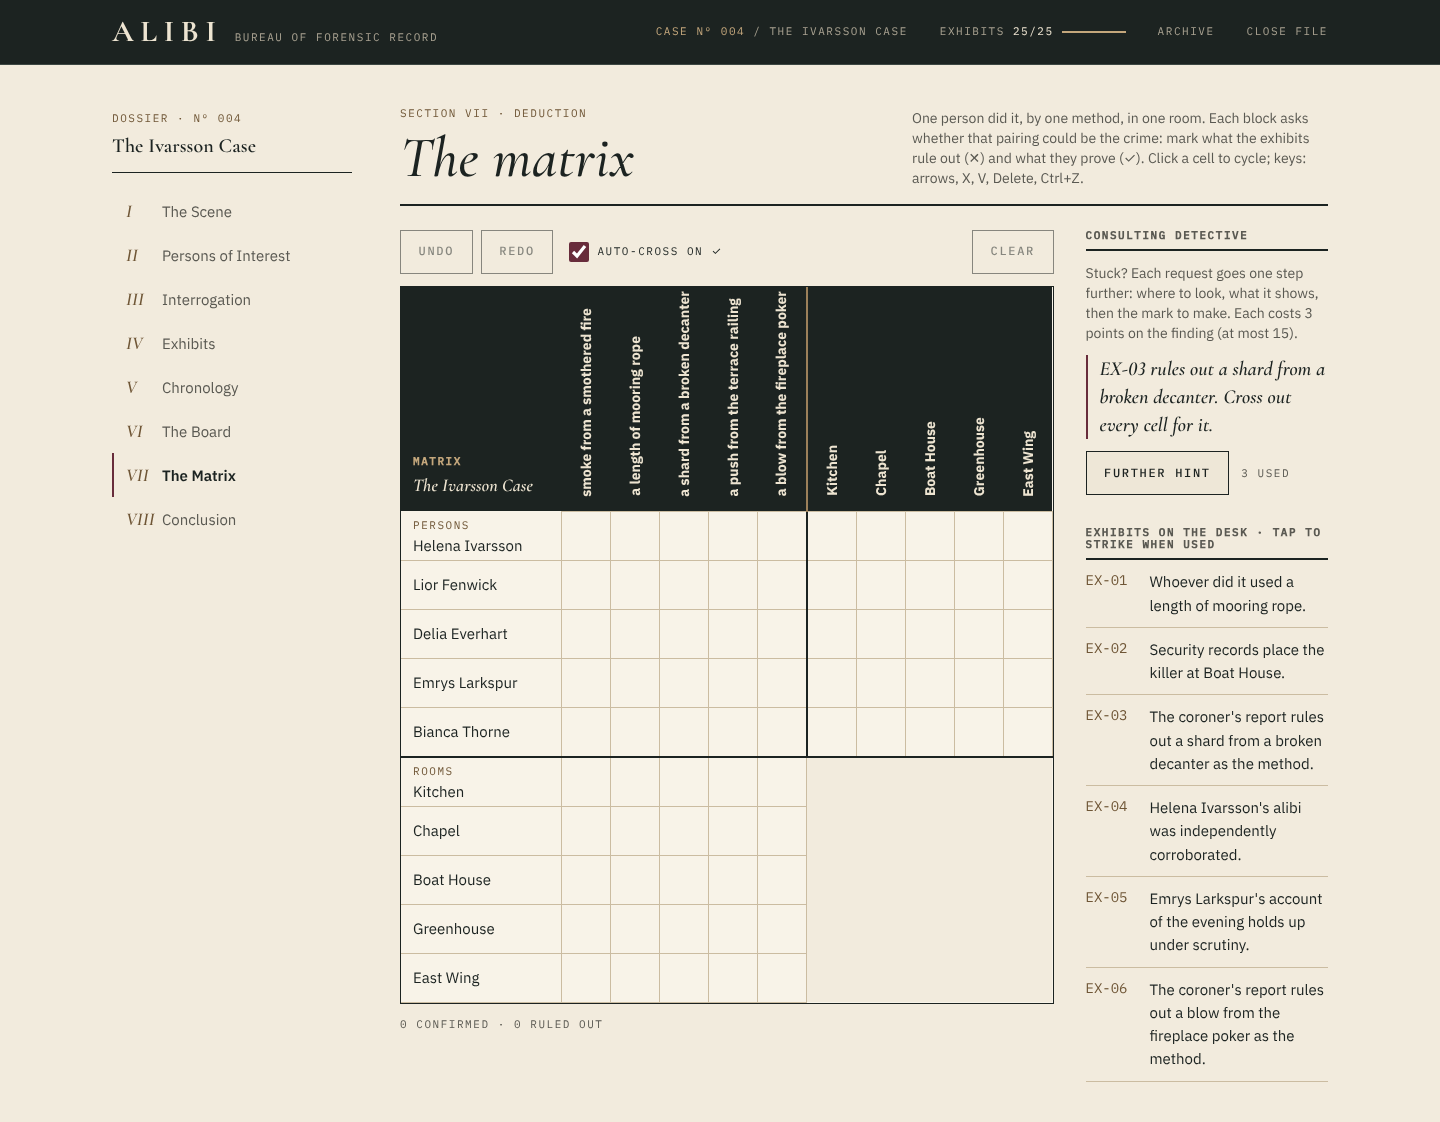
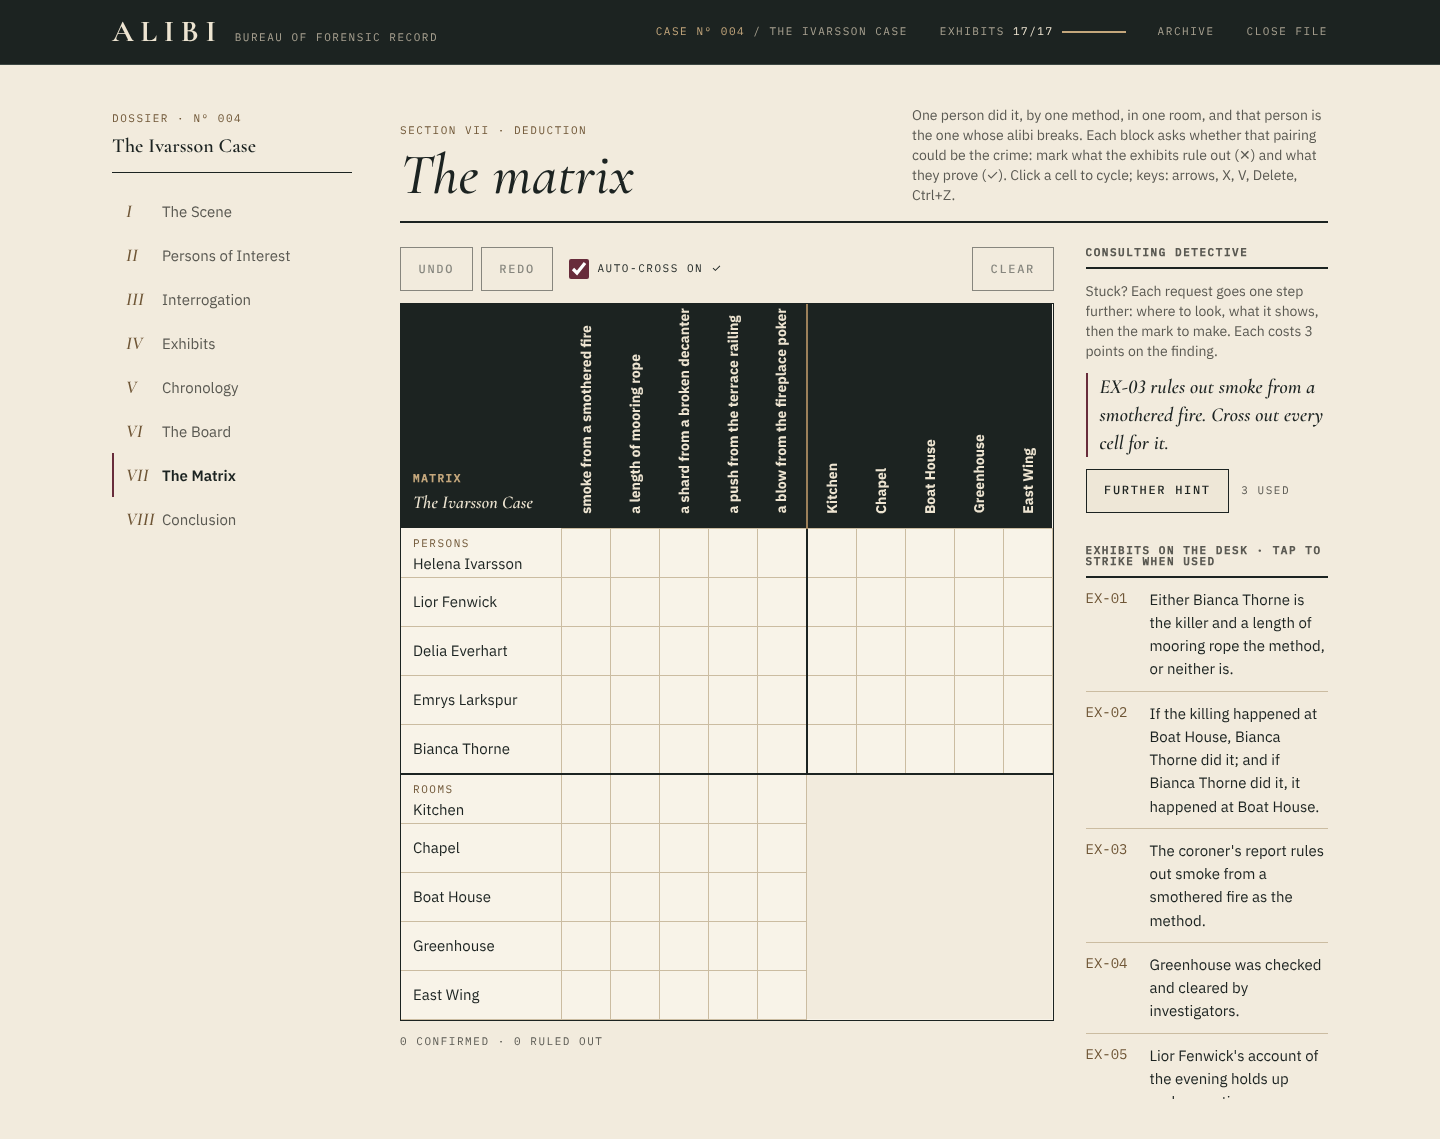
fix: QA — clue text matches solver meaning exactly, liar-is-killer as a stated solver rule, hints limited to what examined exhibits prove, uncapped hint cost, 365-day daily gate
Claude-Session: https://claude.ai/code/session_01EkSruiwNByfFX1a6RiVCtA

diff --git a/src/lib/state/hints.ts b/src/lib/state/hints.ts
@@ -43,11 +43,17 @@ export function nextHint(truth: CaseTruth, cells: Cells, discovered: string[], s
     // Blocks: person×method, person×room, room×method (deduction/page.tsx).
     return k === "person" ? count.method + count.room : k === "method" ? count.person + count.room : count.person + count.method;
   };
-  // A mark that contradicts the exhibits poisons every later step, so it comes first (step -1).
-  const answer = new Map(steps.filter((s) => s.kind === "confirm").map((s) => [`${GRID_KEY[s.axis]}:${s.value}`, true]));
+  // A mark that contradicts what the examined exhibits already prove comes first (step -1).
+  // Only the prefix of the trace whose exhibits are all in hand counts, so this never reveals more than the player holds.
+  const proven = new Set<string>();
+  const eliminated = new Set<string>();
+  for (const s of steps) {
+    if (!s.evidenceIds.every((id) => discovered.includes(id))) break;
+    (s.kind === "confirm" ? proven : eliminated).add(`${GRID_KEY[s.axis]}:${s.value}`);
+  }
   const wrong = Object.entries(cells).find(([k, m]) => {
     const parts = k.split("|");
-    return m === "o" ? parts.some((p) => !answer.has(p)) : parts.every((p) => answer.has(p));
+    return m === "o" ? parts.some((p) => eliminated.has(p)) : parts.every((p) => proven.has(p));
   });
   if (wrong) {
     const level = state.last?.step === -1 ? (Math.min(state.last.level + 1, 3) as 1 | 2 | 3) : 1;
@@ -68,9 +74,11 @@ export function nextHint(truth: CaseTruth, cells: Cells, discovered: string[], s
   const index = steps.findIndex((s) => !reflected(s, cells, slotsFor(s.axis)));
   if (index === -1) return { state, text: "Your grid already records every deduction the exhibits allow. Proceed to the conclusion." };
 
-  const level = state.last?.step === index ? (Math.min(state.last.level + 1, 3) as 1 | 2 | 3) : 1;
-  const repeat = state.last?.step === index && state.last.level === level;
   const step = steps[index];
+  const unseen = step.evidenceIds.filter((id) => !discovered.includes(id));
+  // Until its exhibits are examined a step stays at level 1: naming an unseen exhibit would quote it.
+  const level = state.last?.step === index && !unseen.length ? (Math.min(state.last.level + 1, 3) as 1 | 2 | 3) : 1;
+  const repeat = state.last?.step === index && state.last.level === level;
   const name =
     step.axis === "culprit"
       ? truth.characters.find((c) => c.id === step.value)?.name
@@ -79,8 +87,6 @@ export function nextHint(truth: CaseTruth, cells: Cells, discovered: string[], s
         : truth.locations.find((l) => l.id === step.value)?.name;
   const exNo = (id: string) => `EX-${String(truth.evidence.findIndex((e) => e.id === id) + 1).padStart(2, "0")}`;
   const exs = step.evidenceIds.map(exNo).join(" with ");
-  const unseen = step.evidenceIds.filter((id) => !discovered.includes(id));
-  const roomOf = (id: string) => truth.locations.find((l) => l.id === truth.evidence.find((e) => e.id === id)?.locationId)?.name;
   const plural = PLURAL[step.axis];
 
   let text: string;
@@ -91,7 +97,8 @@ export function nextHint(truth: CaseTruth, cells: Cells, discovered: string[], s
       `${name} is the only one of the ${plural} left: mark it ✓.`,
     ][level - 1];
   } else if (level === 1) {
-    text = unseen.length ? `A marker you have not examined, in ${roomOf(unseen[0])}, bears on the ${plural}.` : `Read ${exs} against the ${plural}.`;
+    // No room name: an exhibit sits in the room its clue is about, so naming it would give the answer away.
+    text = unseen.length ? `A marker you have not examined yet bears on the ${plural}. Search the scene before asking again.` : `Read ${exs} against the ${plural}.`;
   } else if (level === 2) {
     text = `${exs} ${step.evidenceIds.length > 1 ? "together are" : "on its own is"} enough to rule out one of the ${plural}.`;
   } else {

diff --git a/src/lib/engines/narrative-generator.ts b/src/lib/engines/narrative-generator.ts
@@ -76,26 +76,27 @@ const IS_TEMPLATES: Record<Axis, Array<(name: string) => string>> = {
   falseAlibi: [(n) => `${capitalize(AXIS_NOUN.falseAlibi)} is ${n}.`],
 };
 
+// Each template must say exactly what the solver's clue means (solver.ts):
+// linked = "A is part of the answer if and only if B is"; not-linked = "not both".
 const LINKED_TEMPLATES: Record<string, Array<(a: string, b: string) => string>> = {
   "culprit:method": [
-    (_a, b) => `Whoever did it used ${b}.`,
-    (_a, b) => `The killer's weapon was ${b}.`,
-    (_a, b) => `Trace evidence ties the killer to ${b}.`,
+    (a, b) => `Either ${a} is the killer and ${b} the method, or neither is.`,
+    (a, b) => `If ${b} was the method, ${a} is the killer; and if ${a} is the killer, the method was ${b}.`,
   ],
   "culprit:location": [
-    (_a, b) => `Whoever did it was at ${b} that night.`,
-    (_a, b) => `The killer was present at ${b}.`,
-    (_a, b) => `Security records place the killer at ${b}.`,
-  ],
-  "culprit:falseAlibi": [
-    () => `The culprit is the one whose story doesn't hold up.`,
-    () => `Whoever is lying about their alibi is the killer.`,
+    (a, b) => `Either ${a} is the killer and ${b} the scene, or neither is.`,
+    (a, b) => `If the killing happened at ${b}, ${a} did it; and if ${a} did it, it happened at ${b}.`,
   ],
   "method:location": [
-    (a, b) => `${capitalize(a)} was used at ${b}.`,
-    (a, b) => `The scene at ${b} is consistent with ${a}.`,
-    (a, b) => `Forensic residue of ${a} was found at ${b}.`,
+    (a, b) => `Either ${a} was used and ${b} is the scene, or neither is.`,
+    (a, b) => `If ${a} was used, it was at ${b}; and whatever happened at ${b} was done with ${a}.`,
   ],
+};
+
+const NOT_LINKED_TEMPLATES: Record<string, Array<(a: string, b: string) => string>> = {
+  "culprit:method": [(a, b) => `If ${a} is the killer, the method was not ${b}.`, (a, b) => `${a} did not use ${b}.`],
+  "culprit:location": [(a, b) => `If ${a} is the killer, it did not happen at ${b}.`],
+  "method:location": [(a, b) => `${capitalize(a)} was not used at ${b}.`, (a, b) => `Whatever happened at ${b}, it was not ${a}.`],
 };
 
 const CONDITIONAL_TEMPLATES: Array<(ifNoun: string, ifName: string, thenNoun: string, thenName: string, negated: boolean) => string> = [
@@ -170,10 +171,8 @@ export function generateCase({ seed, difficulty }: GenerateCaseOptions): CaseTru
       case "not-linked": {
         const nameA = nameOf(clue.axisA, clue.valueA);
         const nameB = nameOf(clue.axisB, clue.valueB);
-        const positive = names.pick(LINKED_TEMPLATES[`${clue.axisA}:${clue.axisB}`])(nameA, nameB);
-        // The culprit:falseAlibi templates ignore the names, so negating them would deny the always-true rule; name the cleared alibi instead.
-        const negative = `${clue.axisA}:${clue.axisB}` === "culprit:falseAlibi" ? `${nameB}'s story is not the one that breaks.` : `It is not true that ${lowercaseFirst(positive)}`;
-        const text = clue.kind === "linked" ? positive : negative;
+        const templates = clue.kind === "linked" ? LINKED_TEMPLATES : NOT_LINKED_TEMPLATES;
+        const text = names.pick(templates[`${clue.axisA}:${clue.axisB}`])(nameA, nameB);
         return {
           text,
           events: dedupe([eventFor(clue.axisA, clue.valueA), eventFor(clue.axisB, clue.valueB)]),
@@ -387,6 +386,3 @@ function capitalize(s: string): string {
   return s.charAt(0).toUpperCase() + s.slice(1);
 }
 
-function lowercaseFirst(s: string): string {
-  return s.charAt(0).toLowerCase() + s.slice(1);
-}

diff --git a/src/app/deduction/page.tsx b/src/app/deduction/page.tsx
@@ -163,7 +163,7 @@ export default function DeductionPage() {
           <h1 className="mt-2 text-[3rem] md:text-[3.6rem] italic font-medium leading-none">The matrix</h1>
         </div>
         <p className="md:ml-auto md:max-w-[26rem] text-sm text-[var(--muted)]">
-          One person did it, by one method, in one room. Each block asks whether that pairing could be the crime: mark what the exhibits rule out (✕) and what they prove (✓). Click a cell to cycle; keys: arrows, X, V, Delete, Ctrl+Z.
+          One person did it, by one method, in one room, and that person is the one whose alibi breaks. Each block asks whether that pairing could be the crime: mark what the exhibits rule out (✕) and what they prove (✓). Click a cell to cycle; keys: arrows, X, V, Delete, Ctrl+Z.
         </p>
       </header>
 
@@ -274,7 +274,7 @@ export default function DeductionPage() {
             <div className="mb-8">
               <h2 className="label text-[var(--muted)] border-b-2 border-[var(--rule-strong)] pb-2">Consulting detective</h2>
               <p className="mt-3 text-sm text-[var(--muted)]">
-                Stuck? Each request goes one step further: where to look, what it shows, then the mark to make. Each costs 3 points on the finding (at most 15).
+                Stuck? Each request goes one step further: where to look, what it shows, then the mark to make. Each costs 3 points on the finding.
               </p>
               <div aria-live="polite">
                 {hintText && <p className="mt-3 display text-xl italic border-l-2 border-[var(--accent)] pl-3">{hintText}</p>}

diff --git a/src/lib/engines/evaluation-engine.ts b/src/lib/engines/evaluation-engine.ts
@@ -14,7 +14,7 @@ export interface ScoreBreakdown {
   location?: { correct: boolean; points: number };
   keyEvidence: { matched: string[]; missed: string[]; extra: string[]; points: number };
   timeline: { matched: string[]; missed: string[]; points: number };
-  /** Hints cost a little, never the solve itself: 3 points each, at most 15. */
+  /** Hints cost a little, never the verdict: 3 points each (uncapped, so hints cannot become a free oracle). */
   hints: { used: number; points: number };
   totalPoints: number;
   maxPoints: number;
@@ -69,7 +69,7 @@ export function evaluateAccusation(truth: CaseTruth, accusation: Accusation): Sc
   const timelinePoints = Math.round(timelineRatio * WEIGHTS.timeline);
 
   const hintsUsed = accusation.hintsUsed ?? 0;
-  const hintPoints = -Math.min(hintsUsed * 3, 15);
+  const hintPoints = -hintsUsed * 3;
   const totalPoints = Math.max(0, culpritPoints + motivePoints + methodPoints + locationPoints + keyEvidencePoints + timelinePoints + hintPoints);
   const maxPoints = WEIGHTS.culprit + WEIGHTS.motive + WEIGHTS.method + (gradesLocation ? WEIGHTS.location : 0) + WEIGHTS.keyEvidence + WEIGHTS.timeline;
 

diff --git a/__tests__/hints.test.ts b/__tests__/hints.test.ts
@@ -30,9 +30,19 @@ describe("hints", () => {
     expect(h.state.last?.step).toBeGreaterThan(0);
   });
 
-  it("points to the room of an unexamined exhibit instead of quoting it", () => {
+  it("neither quotes nor locates an unexamined exhibit, and does not escalate past it", () => {
     const h = nextHint(truth, {}, [], EMPTY_HINTS)!;
     expect(h.text).toMatch(/marker you have not examined/);
+    for (const l of truth.locations) expect(h.text).not.toContain(l.name);
+    const again = nextHint(truth, {}, [], h.state)!;
+    expect(again.state.used).toBe(1);
+  });
+
+  it("only calls a mark wrong when the examined exhibits already prove it", () => {
+    const culprit = truth.deduction.find((s) => s.kind === "confirm" && s.axis === "culprit")!.value;
+    const room = truth.deduction.find((s) => s.kind === "confirm" && s.axis === "location")!.value;
+    const cells = { [cellKey("person", culprit, "room", room)]: "x" as const };
+    expect(nextHint(truth, cells, [], EMPTY_HINTS)!.text).not.toMatch(/contradicts/);
   });
 
   it("flags a mark that contradicts the exhibits before anything else", () => {

diff --git a/__tests__/daily-window.test.ts b/__tests__/daily-window.test.ts
@@ -1,0 +1,17 @@
+import { describe, it, expect } from "vitest";
+import { generateCase } from "@/lib/engines/narrative-generator";
+import { DAILY_DIFFICULTY } from "@/lib/engines/daily-case";
+
+/** Release gate (§22): a full year of dailies generates, and each one's trace confirms the true answer. */
+describe("365-day daily window", () => {
+  it("every daily from launch generates with a complete clue-only deduction", () => {
+    const start = Date.parse("2026-11-01T00:00:00Z");
+    for (let d = 0; d < 365; d++) {
+      const seed = new Date(start + d * 86_400_000).toISOString().slice(0, 10);
+      const truth = generateCase({ seed, difficulty: DAILY_DIFFICULTY });
+      const confirmed = Object.fromEntries(truth.deduction.filter((s) => s.kind === "confirm").map((s) => [s.axis, s.value]));
+      expect(confirmed.culprit).toBe(truth.solution.culpritId);
+      expect(confirmed.location).toBe(truth.solution.locationId);
+    }
+  });
+});

diff --git a/__tests__/evaluation-engine.test.ts b/__tests__/evaluation-engine.test.ts
@@ -45,7 +45,7 @@ describe("evaluateAccusation", () => {
     expect(score.keyEvidence.points).toBeLessThan(20);
   });
 
-  it("charges 3 points per hint, capped at 15, without touching the verdict", () => {
+  it("charges 3 points per hint without touching the verdict", () => {
     const base = {
       culpritId: theVossManorCase.solution.culpritId,
       motive: theVossManorCase.solution.motive,
@@ -57,7 +57,7 @@ describe("evaluateAccusation", () => {
     const two = evaluateAccusation(theVossManorCase, { ...base, hintsUsed: 2 });
     expect(two.totalPoints).toBe(two.maxPoints - 6);
     const many = evaluateAccusation(theVossManorCase, { ...base, hintsUsed: 9 });
-    expect(many.hints.points).toBe(-15);
+    expect(many.hints.points).toBe(-27);
     expect(many.culprit.correct).toBe(true);
   });
 });

diff --git a/src/components/dossier/frontispiece.tsx b/src/components/dossier/frontispiece.tsx
@@ -54,7 +54,7 @@ export function Frontispiece({ truth, mode }: { truth: CaseTruth; mode: Mode }) 
 
             <p className="mt-6 max-w-[38rem] text-[1.0625rem] leading-relaxed text-[var(--on-ink-muted)]">
               <span className="text-[var(--on-ink)]">{truth.victim.name}.</span> {truth.victim.description} {suspects.length} persons of interest each swear
-              they were elsewhere. <span className="text-[var(--on-ink)]">One of them is lying.</span>
+              they were elsewhere. <span className="text-[var(--on-ink)]">One of them is lying, and the one whose story breaks is the killer.</span>
             </p>
 
             <dl className="mt-10 grid grid-cols-2 md:grid-cols-4 border-t border-[var(--ink-rule)]">

diff --git a/src/lib/engines/solver.ts b/src/lib/engines/solver.ts
@@ -87,6 +87,8 @@ export function solve(puzzle: SolvablePuzzle): SolveResult {
     for (const value of domains[axisIndex]) {
       stepsTried++;
       const next: Assignment = { ...assignment, [axis]: value };
+      // Standing rule, told to the player in the briefing: the one whose alibi breaks is the killer.
+      if (next.culprit !== undefined && next.falseAlibi !== undefined && next.culprit !== next.falseAlibi) continue;
       if (puzzle.clues.some((c) => isViolated(c, next))) continue;
       if (backtrack(axisIndex + 1, next)) return true;
     }

diff --git a/src/lib/engines/puzzle-generator.ts b/src/lib/engines/puzzle-generator.ts
@@ -44,10 +44,10 @@ function buildTrueCluePool(
     }
   }
 
+  // No culprit/falseAlibi pairs: the solver's standing rule (the liar is the killer) makes them empty.
   const axisPairs: [Axis, Axis][] = [
     ["culprit", "method"],
     ["culprit", "location"],
-    ["culprit", "falseAlibi"],
     ["method", "location"],
   ];
   for (const [axisA, axisB] of axisPairs) {

diff --git a/docs/CASE_GENERATION.md b/docs/CASE_GENERATION.md
@@ -109,3 +109,17 @@ Across 1,000 generated puzzles, every elimination needed only one clue (about 10
 Each hint shown costs 3 points on the finding, up to 15. The verdict itself is never changed.
 
 The reveal lists the full trace under "How the exhibits decide it". Daily cases also get a share block that names no person, method or room.
+
+### QA fixes (2026-11-04)
+
+- **Clue text now matches the solver exactly.**
+  - A "linked" clue is rendered as an *if-and-only-if* that names both values. Before, "Whoever did it used X" asserted only one direction, and in 11 of 120 dailies the text alone left two culprits possible.
+  - A "not-linked" clue is rendered as "not both".
+  - `NOT_LINKED_TEMPLATES` in `narrative-generator.ts` covers these, and every template must keep this exact meaning.
+- **The liar is the killer.** This is now a standing rule enforced in `solver.ts`. The homepage briefing and the matrix intro tell the player. Clue pairs between culprit and false alibi are no longer generated, because under the rule they say nothing.
+- **Hints only use exhibits the player has examined.**
+  - A hint flags a contradicting mark only when the examined exhibits already prove it.
+  - A step whose exhibit is still unexamined stays at level 1, and the hint names no room. This stops hints acting as an oracle or leaking a room.
+  - Hints cost 3 points each, with no cap.
+- **Year-long check.** `__tests__/daily-window.test.ts` generates 365 dailies from launch and checks that the clue-only trace confirms the true culprit and room.
+- **Difficulty is still low.** Every elimination needs only one exhibit, about 12 per case. A harder clue selection is planned for the content phase.
